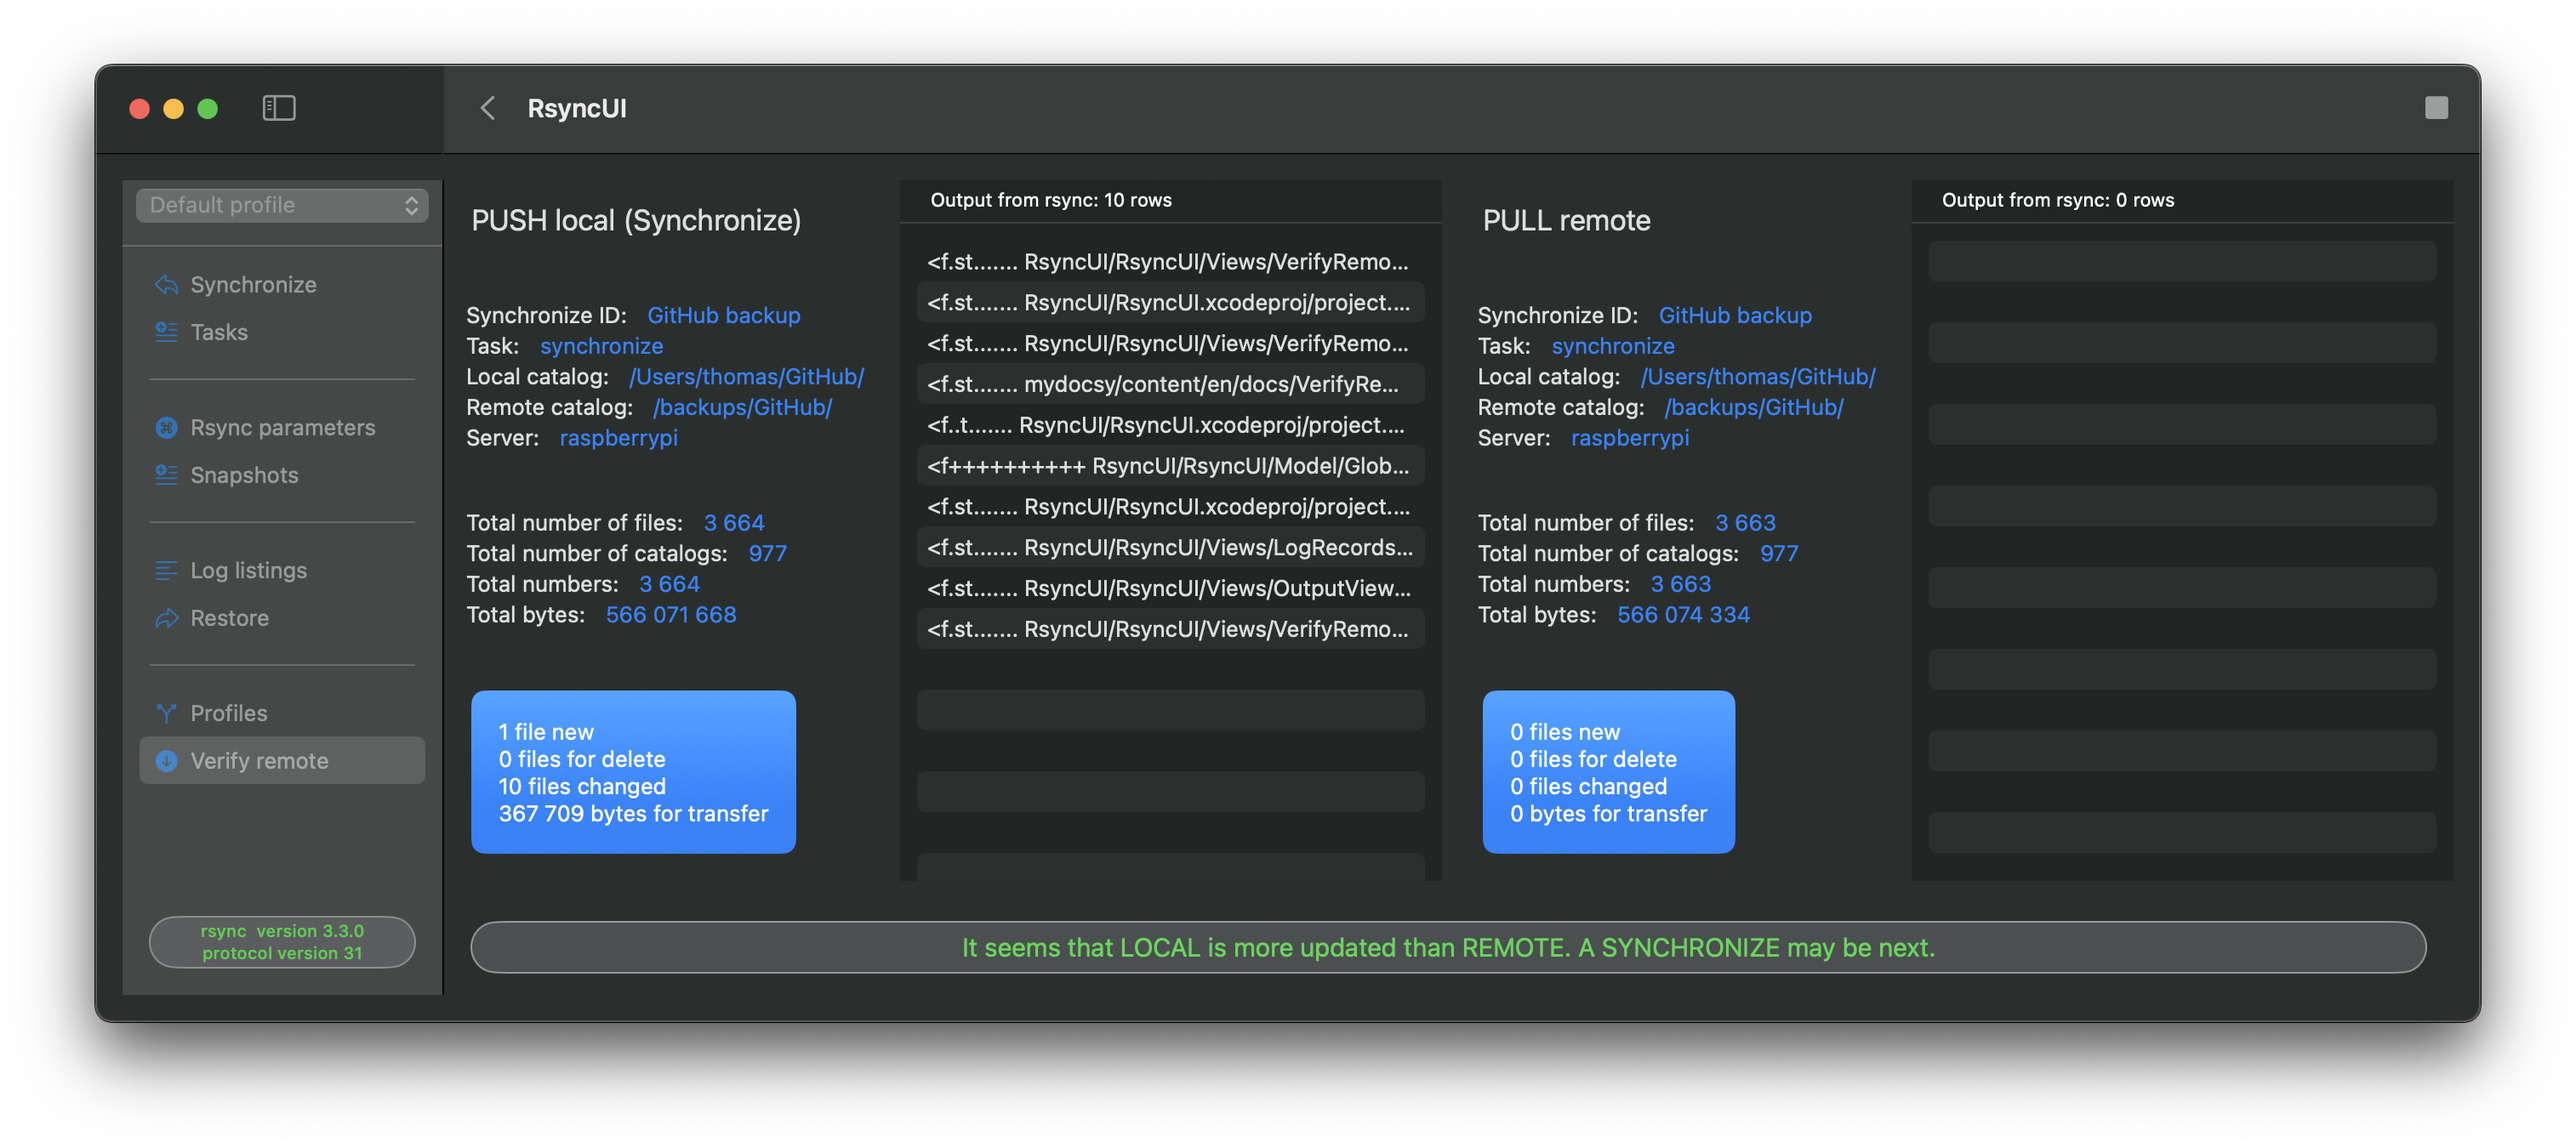
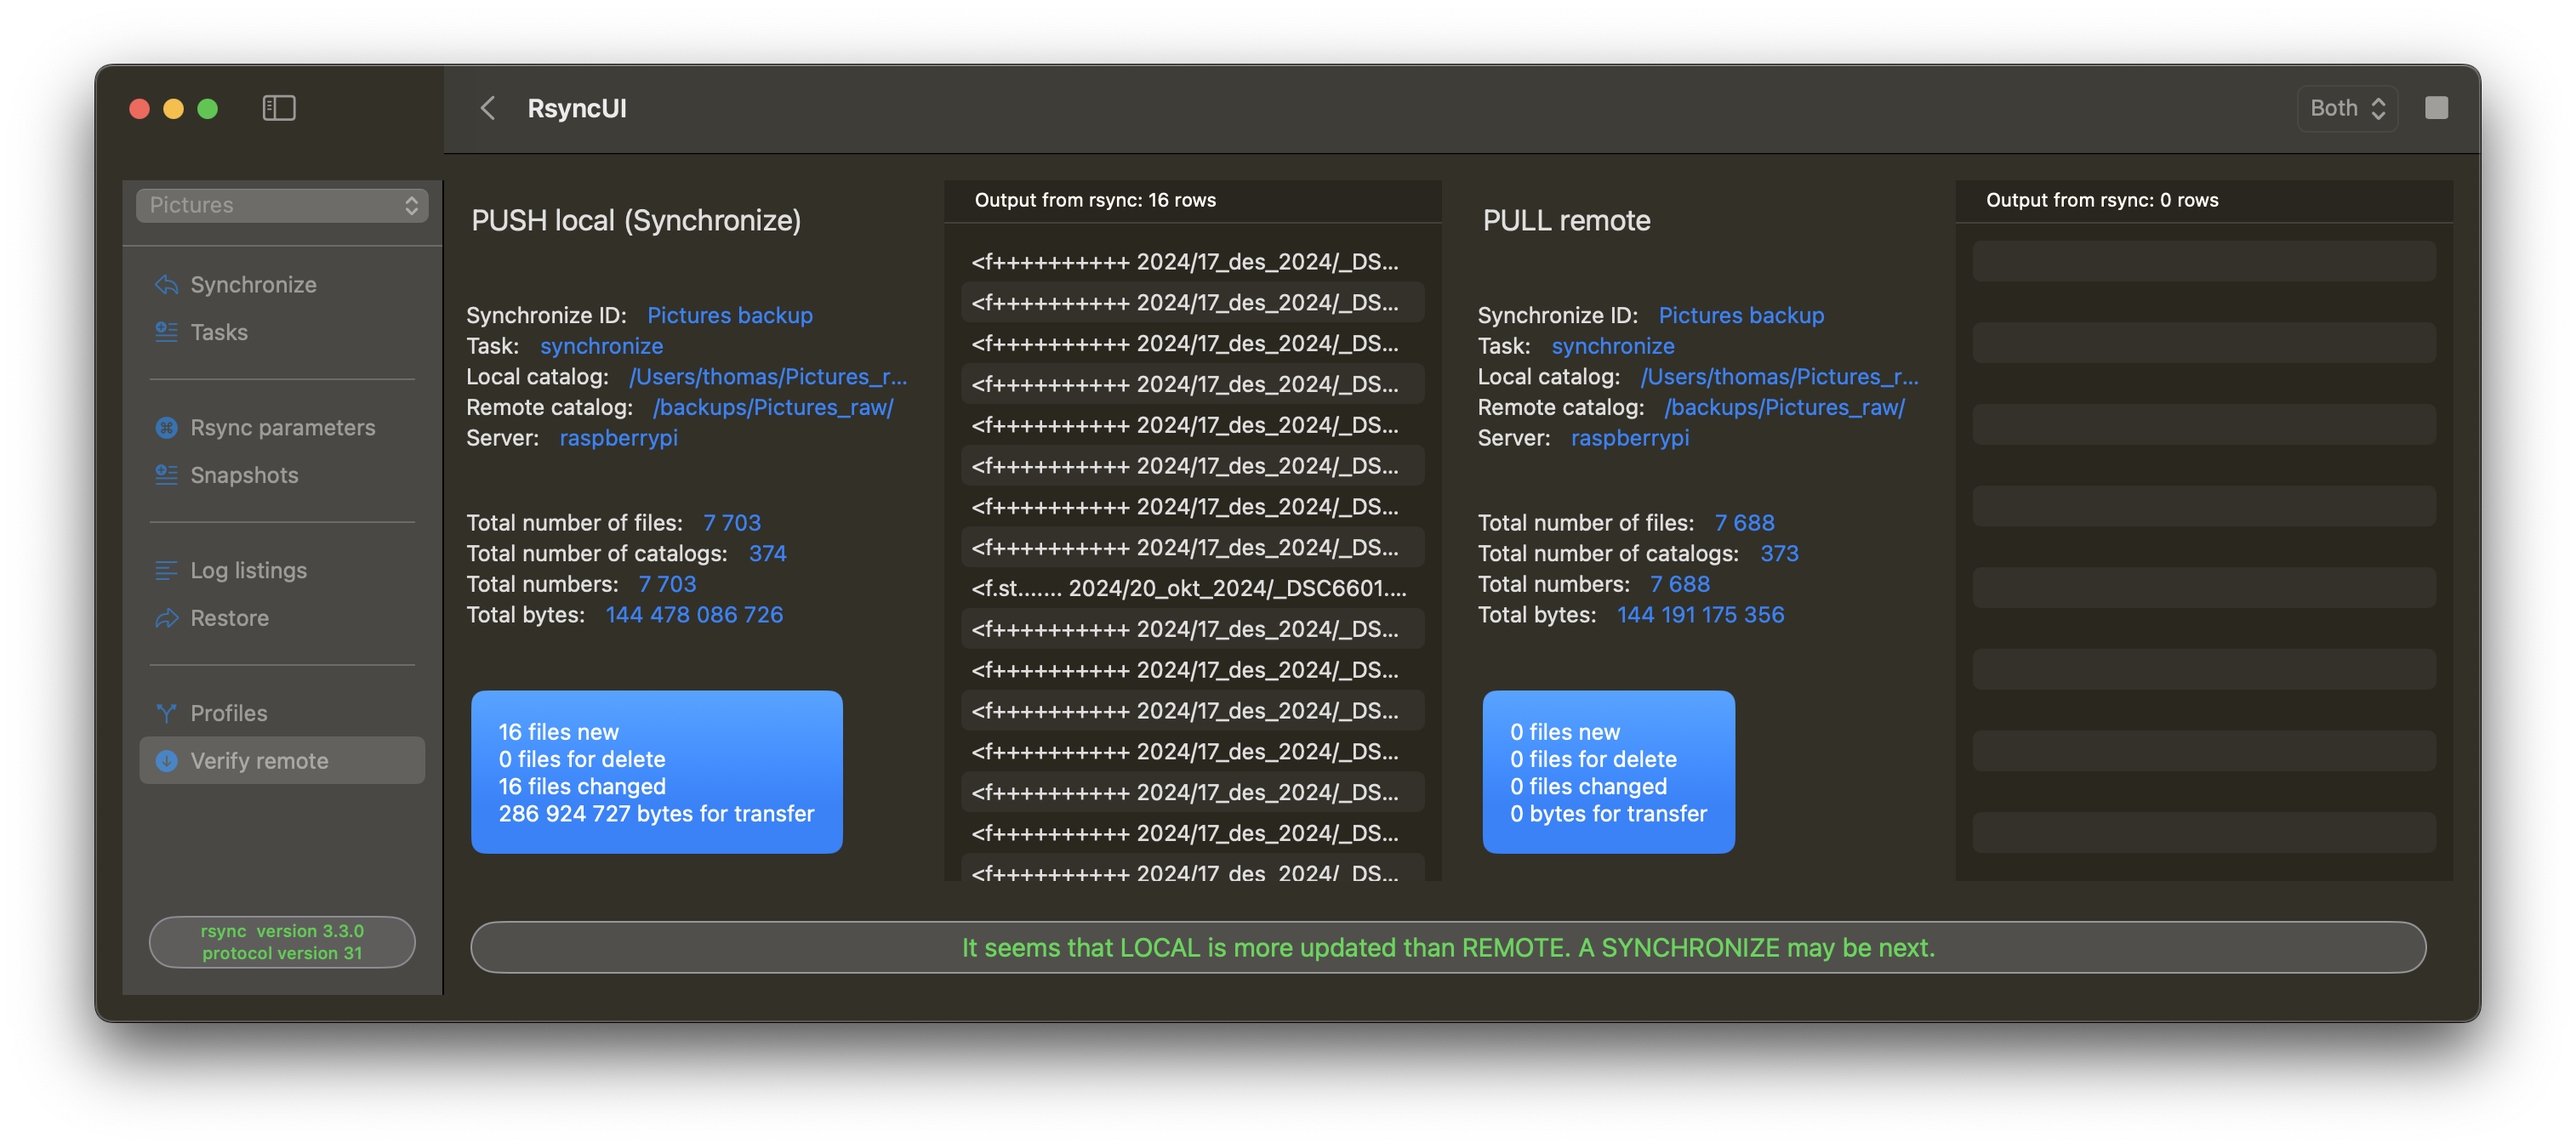
update

diff --git a/content/en/docs/VerifyRemote.md b/content/en/docs/VerifyRemote.md
@@ -12,7 +12,8 @@ The user is solely responsible for determining the appropriate action. RsyncUI p
 based on a rudimentary evaluation of a push and pull data comparison. The function also requiere version 3.x of
 rsync to be installed and enabled.
 
-**It is still in development for the upcoming version 2.2.2.** The following screenshots are from the development.
+**It is still in development for the upcoming version 2.2.2.** The following screenshots are from the development
+and **not** yet in the release candidate.
 
 {{< /alert >}}
 
@@ -90,4 +91,7 @@ YXcstpoguax
 {{< figure src="/images/verify/verifycompleted.png" alt="" position="center" style="border-radius: 8px;" >}}
 
 RsyncUI indicates my local repository is more updated than remote. However, this is merely an advisory.
-I must verify this independently to ensure my certainty.
+I must verify this independently to ensure my certainty. From the toolbar, choose to show push or pull
+view to see more details.
+
+{{< figure src="/images/verify/pushview.png" alt="" position="center" style="border-radius: 8px;" >}}
